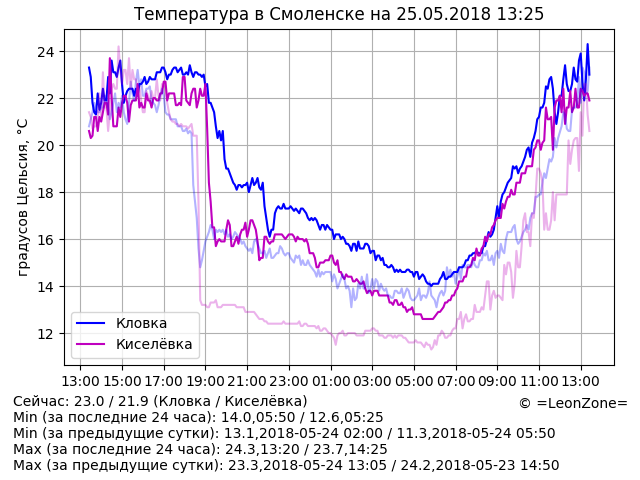
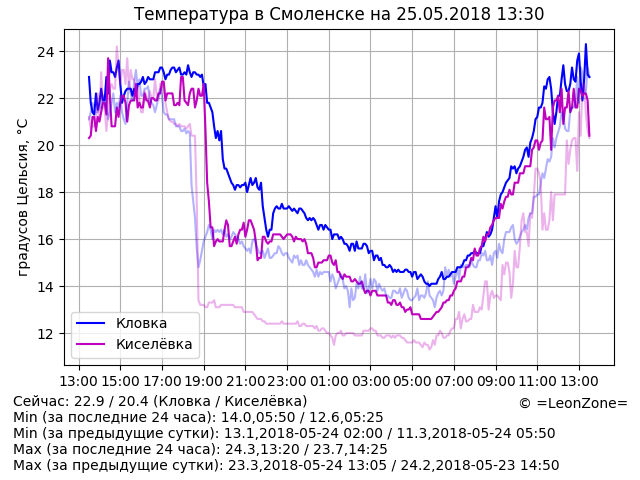
Update data

diff --git a/index.html b/index.html
@@ -14,7 +14,7 @@
 	<p align="center"><script>document.write("<img src=\"graph.png?rnd="+Math.random()+"\" alt=\"Температура в Смоленске\" align=\"middle\" width=\"640\" height=\"480\" />")</script>
 	<p hidden="true">
 <!-- textinfo -->
-Сейчас: 23.0 / 21.9 (Кловка / Киселёвка)
+Сейчас: 22.9 / 20.4 (Кловка / Киселёвка)
 Min (за последние 24 часа): 14.0,05:50 / 12.6,05:25
 Min (за предыдущие сутки): 13.1,2018-05-24 02:00 / 11.3,2018-05-24 05:50
 Max (за последние 24 часа): 24.3,13:20 / 23.7,14:25
